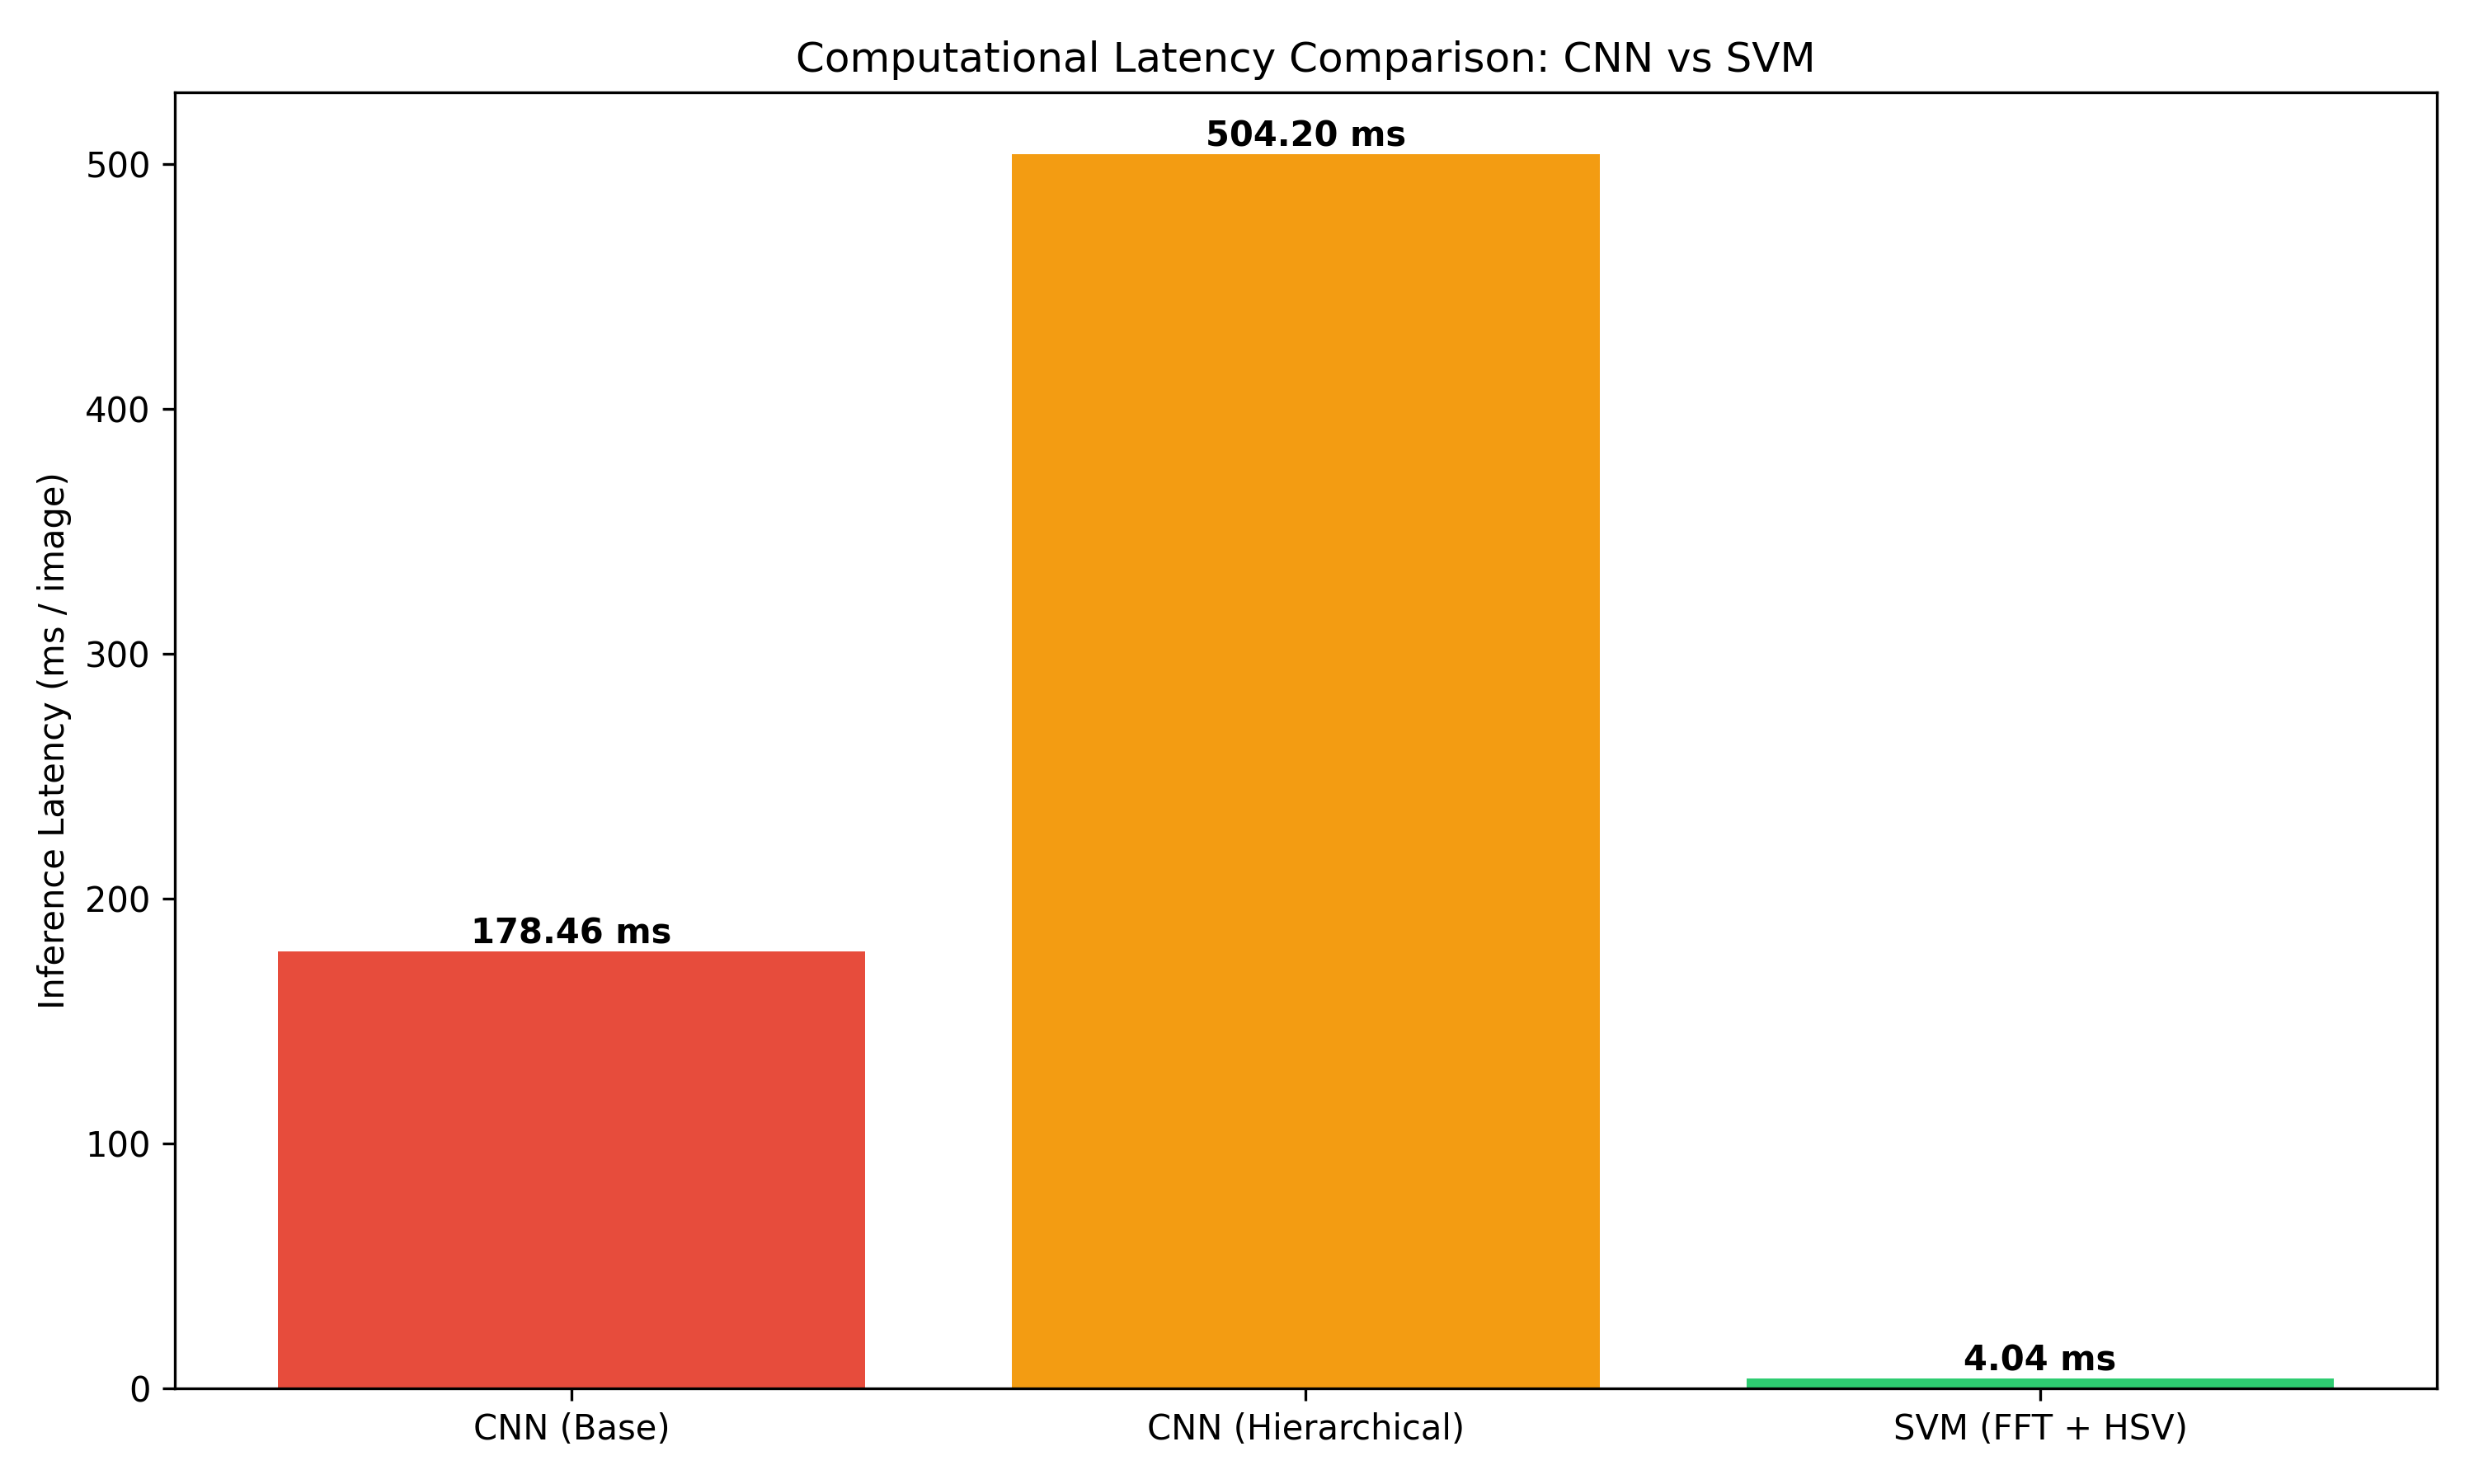
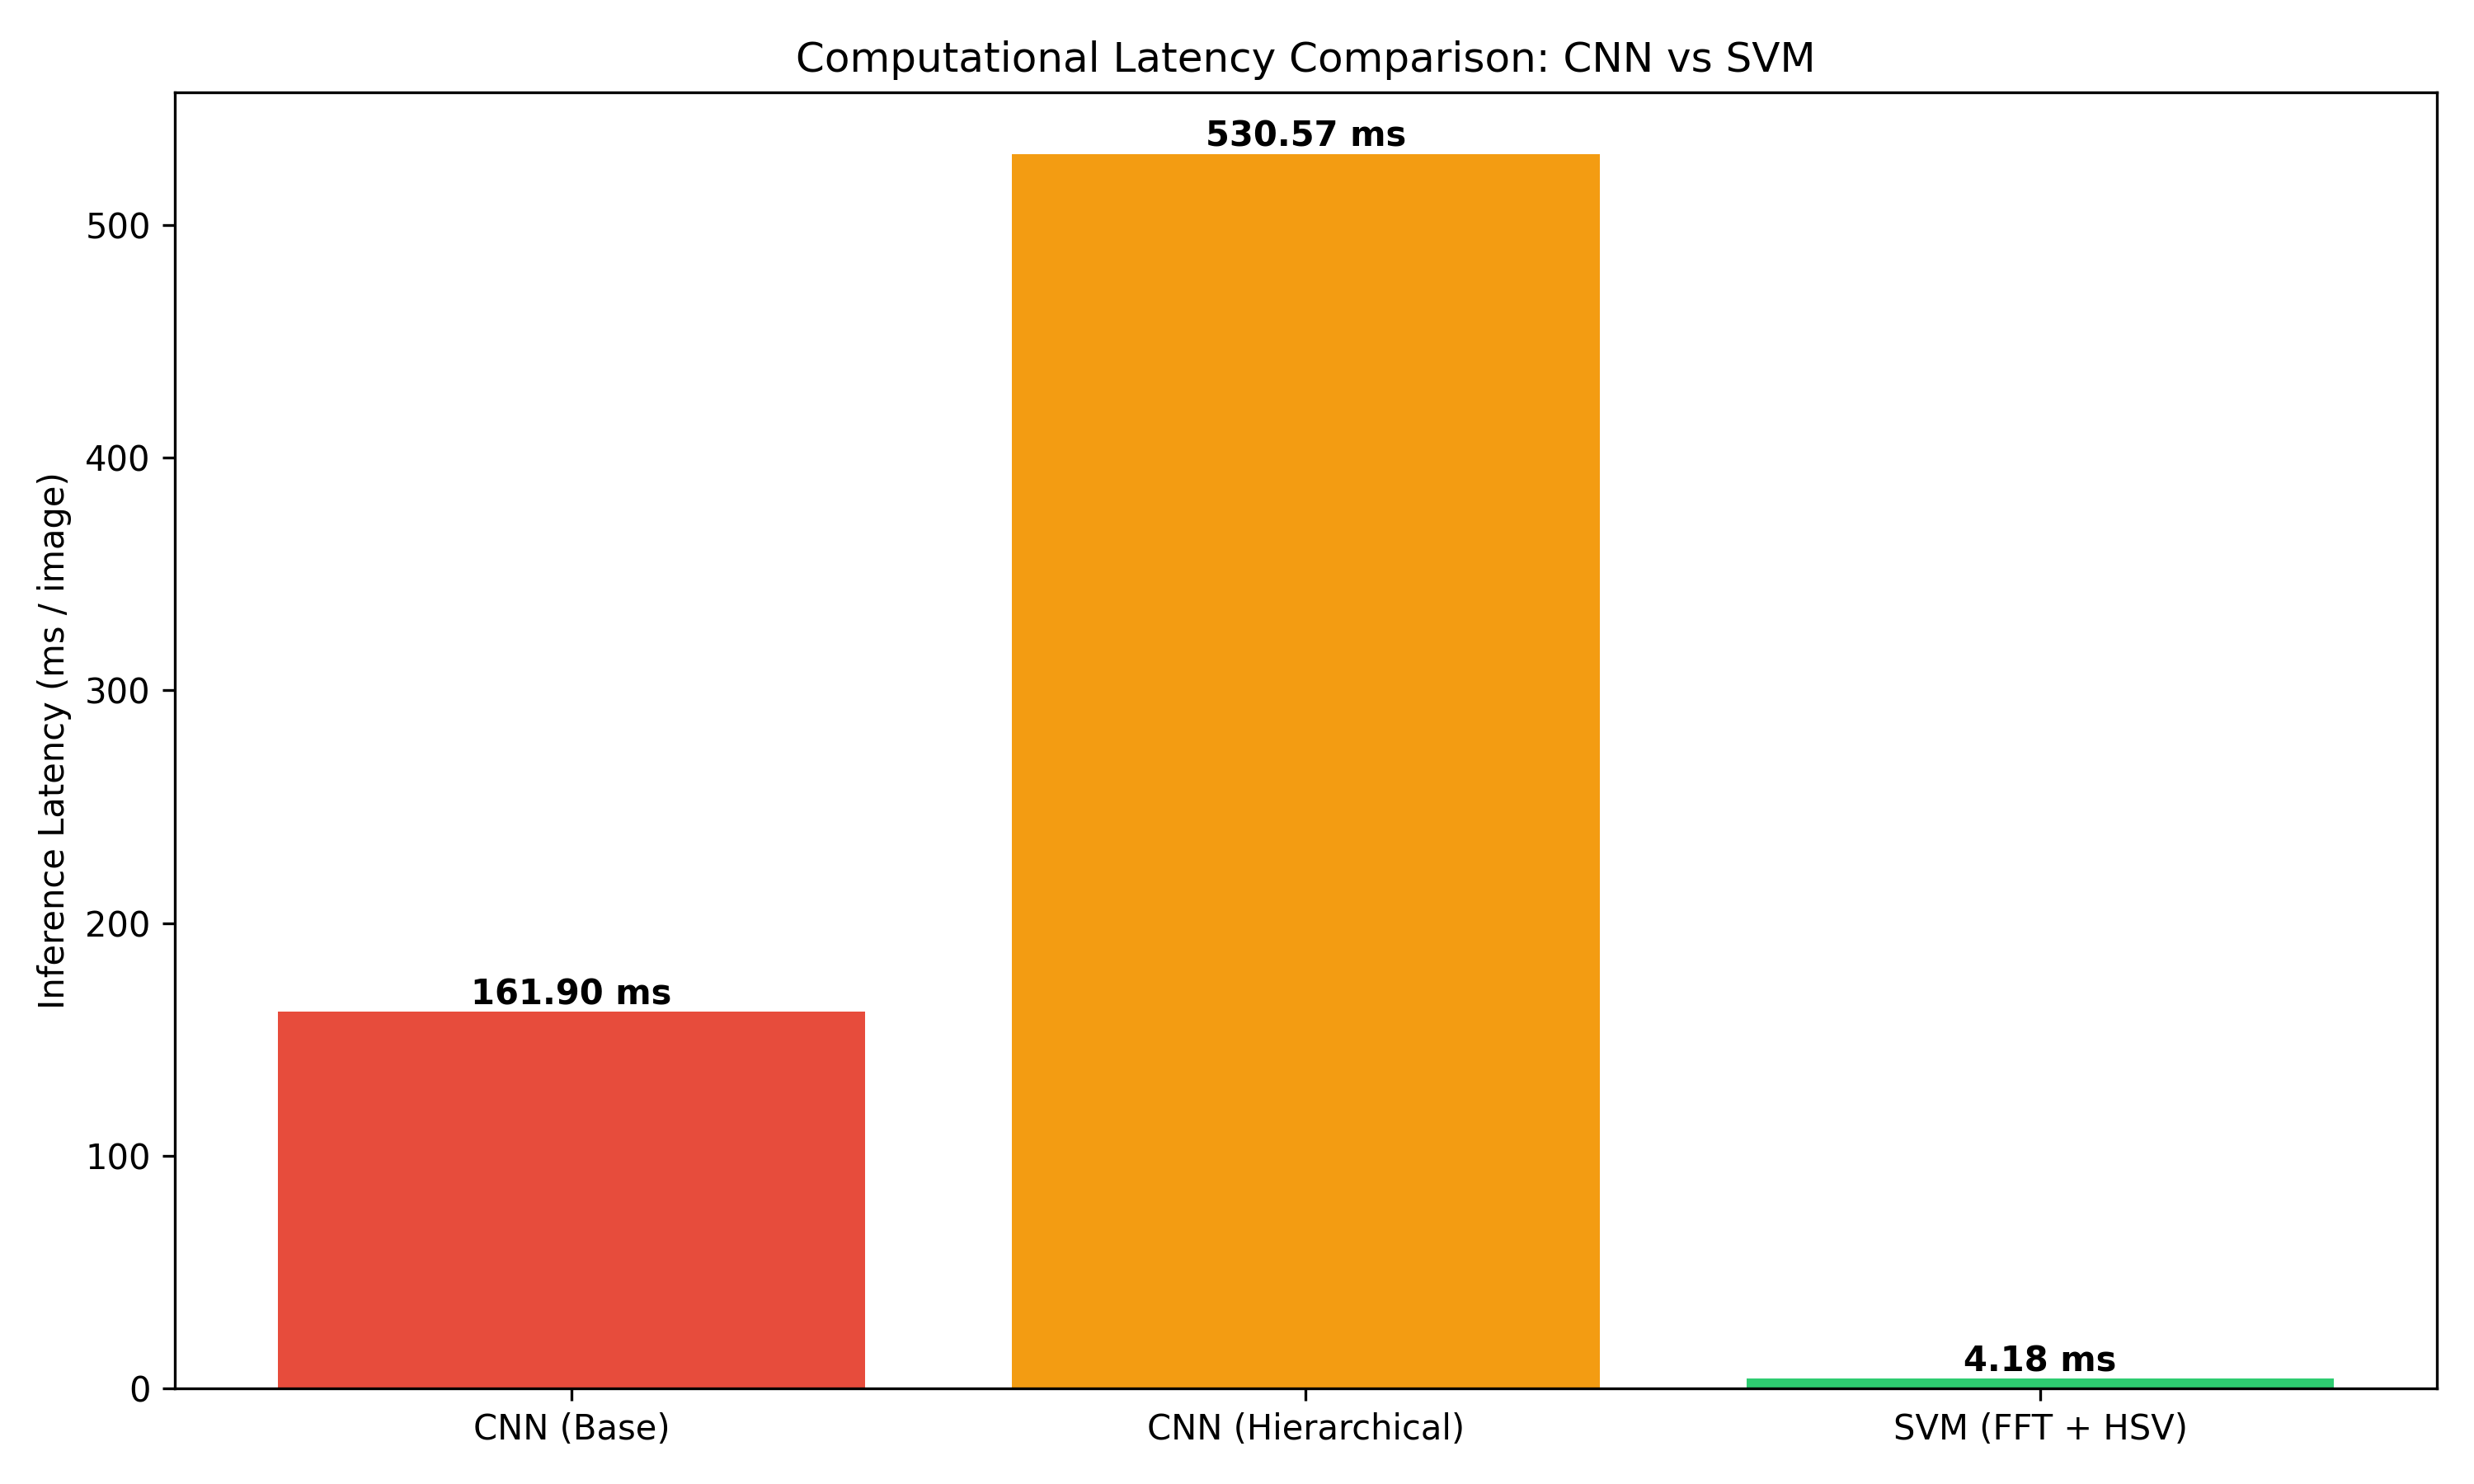
Enhance pipeline notebook with hierarchical SVM benchmarking
- Updated introduction to clarify comparison between deep CNN models and lightweight Hybrid SVM models.
- Added loading of hierarchical SVM models and their components.
- Introduced benchmarking for hierarchical SVM inference, including feature extraction and species-specific classification.
- Adjusted visual comparison section to include hierarchical SVM results.
- Updated conclusion to reflect performance comparisons between Base CNN, Hierarchical CNN, Base SVM, and Hierarchical SVM.

diff --git a/scripts/generate_pipeline_nb.py b/scripts/generate_pipeline_nb.py
@@ -5,7 +5,7 @@ nb = nbf.v4.new_notebook()
 
 text_intro = """\
 # Demeter Data Pipeline Verification & Benchmarking
-This notebook verifies the data pipeline from start to finish and provides computational benchmarks comparing the deep CNN model (MobileNetV2) against our lightweight Hybrid SVM model (FFT + HSV).
+This notebook verifies the data pipeline from start to finish and provides computational benchmarks comparing the deep CNN models against our lightweight Hybrid SVM models (FFT + HSV).
 
 The goal is to provide hard evidence that the Hybrid SVM significantly improves computation times, making it highly suitable for edge-device deployment."""
 
@@ -29,7 +29,7 @@ warnings.filterwarnings('ignore')
 # Add src to path
 sys.path.append(os.path.abspath('..'))
 
-from src.core.inference_engine import extract_hybrid_fft_features, predict_hybrid_disease, predict_hierarchical_cnn
+from src.core.inference_engine import extract_hybrid_fft_features, predict_hybrid_disease, predict_hierarchical_cnn, predict_hybrid_hierarchical
 from src.utils.data_loader import load_image_for_cnn
 """
 
@@ -64,17 +64,6 @@ if os.path.exists(cnn_path):
 else:
     print(f"Base CNN model not found at {cnn_path}")
 
-# Load SVM models
-svm_dir = '../models/experimentation'
-try:
-    svm_model = joblib.load(os.path.join(svm_dir, 'hybrid_svm.joblib'))
-    scaler_fft = joblib.load(os.path.join(svm_dir, 'hybrid_fft_scaler.joblib'))
-    pca_fft = joblib.load(os.path.join(svm_dir, 'hybrid_fft_pca.joblib'))
-    scaler_hist = joblib.load(os.path.join(svm_dir, 'hybrid_hist_scaler.joblib'))
-    print("Loaded SVM pipeline components.")
-except Exception as e:
-    print(f"SVM pipeline components missing: {e}")
-
 print("Loading Hierarchical CNN models...")
 id_model_path = '../models/demeter_cnn_plantvillage_species_identifier.keras'
 hier_models = {}
@@ -86,6 +75,41 @@ if os.path.exists(id_model_path):
             hier_models[species.lower()] = tf.keras.models.load_model(model_path)
 else:
     print("Hierarchical CNN models not found.")
+
+# Load SVM models
+svm_dir = '../models/experimentation'
+try:
+    svm_model = joblib.load(os.path.join(svm_dir, 'hybrid_svm.joblib'))
+    scaler_fft = joblib.load(os.path.join(svm_dir, 'hybrid_fft_scaler.joblib'))
+    pca_fft = joblib.load(os.path.join(svm_dir, 'hybrid_fft_pca.joblib'))
+    scaler_hist = joblib.load(os.path.join(svm_dir, 'hybrid_hist_scaler.joblib'))
+    print("Loaded Base SVM pipeline components.")
+except Exception as e:
+    print(f"Base SVM pipeline components missing: {e}")
+
+print("Loading Hierarchical SVM models...")
+try:
+    identifier_components = {
+        "svm": joblib.load(os.path.join(svm_dir, 'hybrid_svm_species_identifier.joblib')),
+        "classes": joblib.load(os.path.join(svm_dir, 'hybrid_svm_species_identifier_classes.joblib')),
+        "fft_pca": joblib.load(os.path.join(svm_dir, 'hybrid_svm_species_identifier_fft_pca.joblib')),
+        "fft_scaler": joblib.load(os.path.join(svm_dir, 'hybrid_svm_species_identifier_fft_scaler.joblib')),
+        "hist_scaler": joblib.load(os.path.join(svm_dir, 'hybrid_svm_species_identifier_hist_scaler.joblib'))
+    }
+    
+    species_svms_cache = {}
+    for species in ['pepper', 'potato', 'tomato']:
+        spec_dir = os.path.join(svm_dir, 'species_svms')
+        species_svms_cache[species] = {
+            "svm": joblib.load(os.path.join(spec_dir, f'hybrid_svm_{species}.joblib')),
+            "classes": joblib.load(os.path.join(spec_dir, f'hybrid_svm_{species}_classes.joblib')),
+            "fft_pca": joblib.load(os.path.join(spec_dir, f'hybrid_svm_{species}_fft_pca.joblib')),
+            "fft_scaler": joblib.load(os.path.join(spec_dir, f'hybrid_svm_{species}_fft_scaler.joblib')),
+            "hist_scaler": joblib.load(os.path.join(spec_dir, f'hybrid_svm_{species}_hist_scaler.joblib'))
+        }
+    print("Loaded Hierarchical SVM pipeline components.")
+except Exception as e:
+    print(f"Hierarchical SVM pipeline components missing: {e}")
 """
 
 text_cnn = """\
@@ -183,8 +207,8 @@ print(f"  - Inference Time: {hier_cnn_avg_inf:.2f} ms")
 """
 
 text_svm = """\
-## 4. SVM (FFT+HSV) Inference Benchmark
-We measure the total time taken for Otsu segmentation, 2D FFT, HSV histograms, PCA, and SVM inference."""
+## 4. Base SVM (FFT+HSV) Inference Benchmark
+We measure the total time taken for Otsu segmentation, 2D FFT, HSV histograms, PCA, and Base SVM inference."""
 
 code_svm = """\
 svm_times = []
@@ -217,22 +241,47 @@ for img_path in sample_images:
 svm_avg_time = np.mean(svm_times) if svm_times else 0
 svm_avg_prep = np.mean(svm_prep_times) if svm_prep_times else 0
 svm_avg_inf = np.mean(svm_inf_times) if svm_inf_times else 0
-print(f"Average SVM Total Time: {svm_avg_time:.2f} ms per image")
+print(f"Average Base SVM Total Time: {svm_avg_time:.2f} ms per image")
 print(f"  - Preprocessing Time (Otsu + FFT + HSV): {svm_avg_prep:.2f} ms")
 print(f"  - Inference Time: {svm_avg_inf:.2f} ms")
 """
 
+text_hier_svm = """\
+## 5. Hierarchical SVM Inference Benchmark
+We measure the total time taken for feature extraction, primary species identification, and species-specific disease classification."""
+
+code_hier_svm = """\
+hier_svm_times = []
+
+# Warm up
+if len(sample_images) > 0 and 'identifier_components' in locals():
+    predict_hybrid_hierarchical(sample_images[0], identifier_components, species_svms_cache)
+
+for img_path in sample_images:
+    start_time = time.time()
+    try:
+        predict_hybrid_hierarchical(img_path, identifier_components, species_svms_cache)
+    except Exception as e:
+        print(f"Failed on {img_path}: {e}")
+        
+    end_time = time.time()
+    hier_svm_times.append((end_time - start_time) * 1000) # milliseconds
+
+hier_svm_avg_time = np.mean(hier_svm_times) if hier_svm_times else 0
+print(f"Average Hierarchical SVM Total Time: {hier_svm_avg_time:.2f} ms per image")
+"""
+
 text_compare = """\
-## 5. Visual Comparison
+## 6. Visual Comparison
 Let's generate the comparison charts to paste into the presentation."""
 
 code_compare = """\
-if cnn_times and svm_times and hier_cnn_times:
-    labels = ['CNN (Base)', 'CNN (Hierarchical)', 'SVM (FFT + HSV)']
-    times = [cnn_avg_time, hier_cnn_avg_time, svm_avg_time]
+if cnn_times and svm_times and hier_cnn_times and hier_svm_times:
+    labels = ['CNN (Base)', 'CNN (Hierarchical)', 'SVM (Base)', 'SVM (Hierarchical)']
+    times = [cnn_avg_time, hier_cnn_avg_time, svm_avg_time, hier_svm_avg_time]
     
     fig, ax = plt.subplots(figsize=(10, 6))
-    bars = ax.bar(labels, times, color=['#e74c3c', '#f39c12', '#2ecc71'])
+    bars = ax.bar(labels, times, color=['#e74c3c', '#f39c12', '#2ecc71', '#3498db'])
     
     ax.set_ylabel('Inference Latency (ms / image)')
     ax.set_title('Computational Latency Comparison: CNN vs SVM')
@@ -247,8 +296,8 @@ if cnn_times and svm_times and hier_cnn_times:
     plt.show()
     
     speedup_base = cnn_avg_time / svm_avg_time
-    speedup_hier = hier_cnn_avg_time / svm_avg_time
-    print(f"CONCLUSION: The SVM pipeline is {speedup_base:.2f}x faster than the Base CNN and {speedup_hier:.2f}x faster than the Hierarchical CNN.")
+    speedup_hier = hier_cnn_avg_time / hier_svm_avg_time
+    print(f"CONCLUSION: The Base SVM is {speedup_base:.2f}x faster than the Base CNN and the Hierarchical SVM is {speedup_hier:.2f}x faster than the Hierarchical CNN.")
 """
 
 nb['cells'] = [
@@ -262,6 +311,8 @@ nb['cells'] = [
     nbf.v4.new_code_cell(code_hier_cnn),
     nbf.v4.new_markdown_cell(text_svm),
     nbf.v4.new_code_cell(code_svm),
+    nbf.v4.new_markdown_cell(text_hier_svm),
+    nbf.v4.new_code_cell(code_hier_svm),
     nbf.v4.new_markdown_cell(text_compare),
     nbf.v4.new_code_cell(code_compare)
 ]